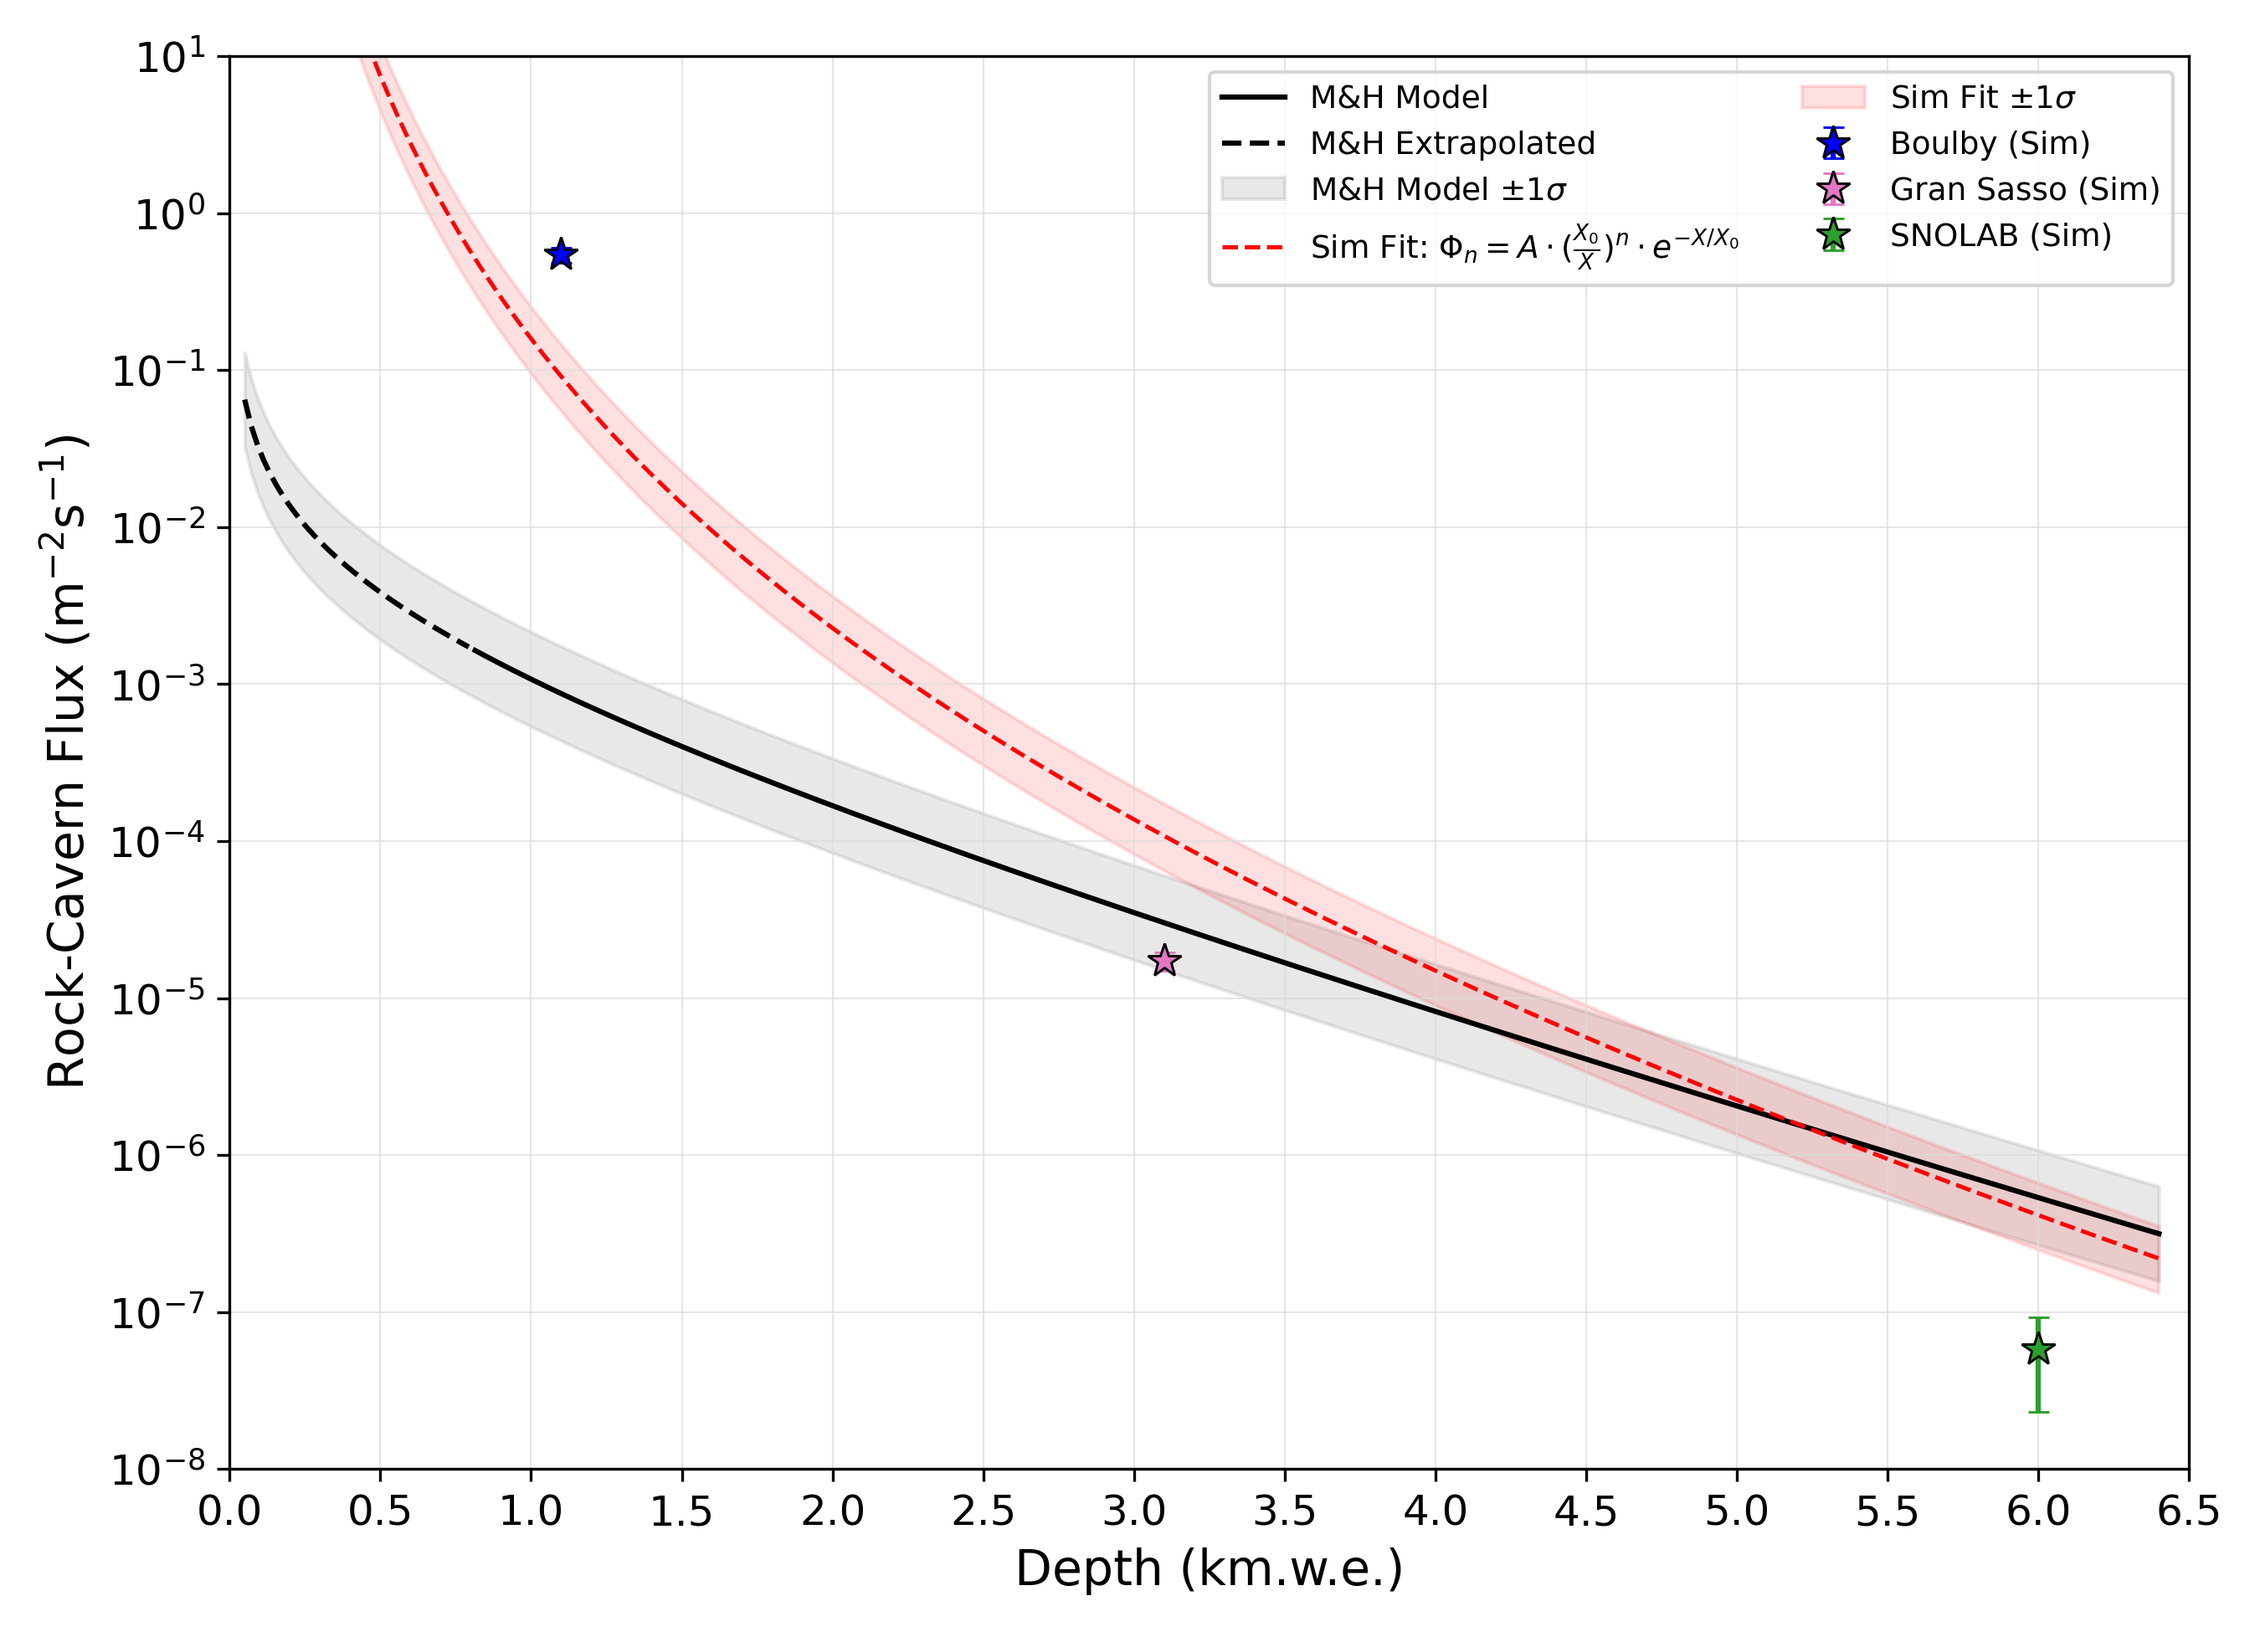
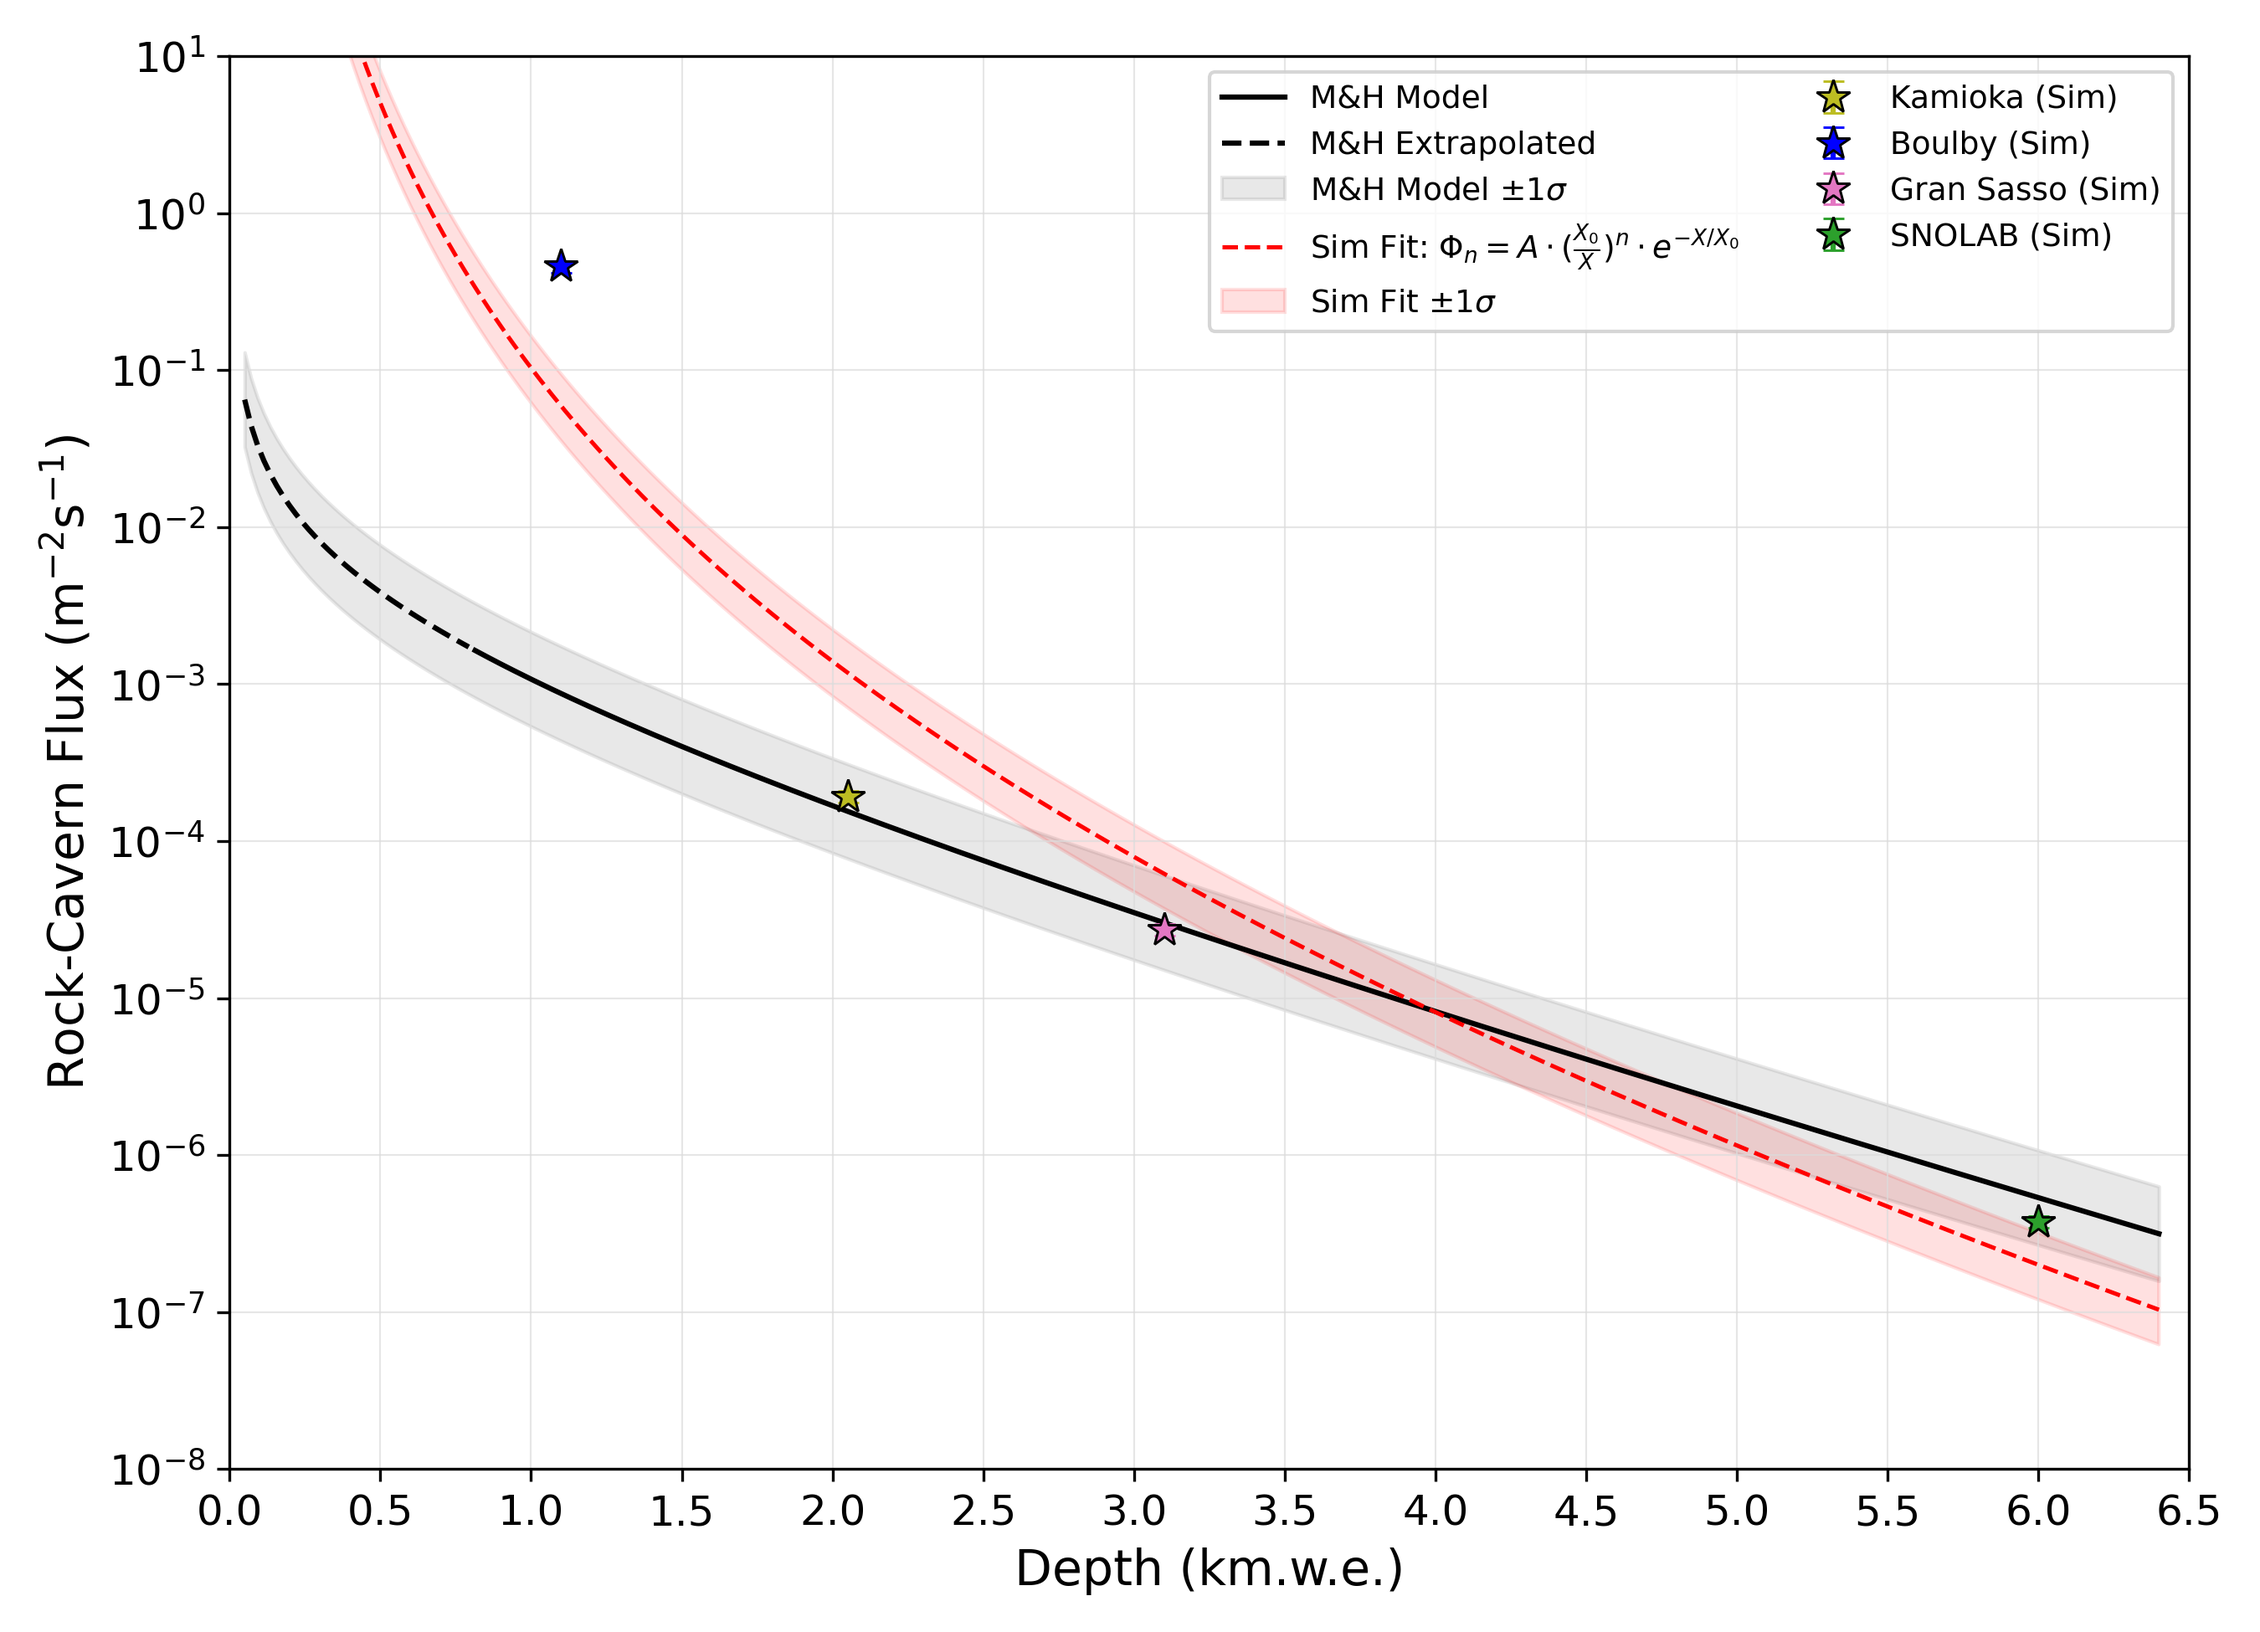
Checking underground plots

Changed region(s): [[0.1556, 0.0308, 0.9644, 0.8308], [0.5289, 0.1538, 0.6533, 0.2154], [0.7778, 0.0308, 0.9333, 0.0923]]

diff --git a/UndergroundLabs.py b/UndergroundLabs.py
@@ -5,7 +5,7 @@ import matplotlib.pyplot as plt
 import matplotlib.ticker as ticker
 from scipy.optimize import curve_fit
 
-BASE_DIR = "/home/taylor33/code/SimCSVs/"
+BASE_DIR = "/home/taylor33/scratch"
 save_path = "/home/taylor33/code/plots/"
 
 SITES_CONFIG = {
@@ -31,18 +31,17 @@ SITES_CONFIG = {
     #    'ms': 10
     #},
 
-    #'Kamioka': {
-    #    'path': os.path.join(BASE_DIR, 'escaped_secondary_kamland.csv'),
-    #    'depth': 2.05,
-    #    'area': 66.2,               # Where Hyper Kamiokande is (newly excavated) 2091
-    #    'R_gen': 8.4,                
-    #    'Phi_mu': 1.50e-3,
-    #    'color': '#bcbd22',          # Yellow-green
-    #    'marker': '*',
-    #    'ms': 10
-    #},
+    'Kamioka': {
+        'path': os.path.join(BASE_DIR, 'MUTE_KamLAND.csv'),
+        'depth': 2.05,
+        'area': 66.2,               # Where Hyper Kamiokande is (newly excavated) 2091
+        'R_gen': 8.4,                
+        'Phi_mu': 1.50e-3,
+        'color': '#bcbd22',          # Yellow-green
+        'marker': '*',
+        'ms': 10
+    },
 
-	#
 	'Boulby': {
 
     	    'path': os.path.join(BASE_DIR, 'MUTE_Boulby.csv'),
@@ -66,7 +65,7 @@ SITES_CONFIG = {
     },
 
     'SNOLAB': {
-        'path': os.path.join(BASE_DIR, 'MUTE_SNOLAB.csv'),
+        'path': os.path.join(BASE_DIR, 'MUTE_snolab.csv'),
         'depth': 6.00,
         'area': 66.2,                 # cube hall 276
         'R_gen': 8.4,             
